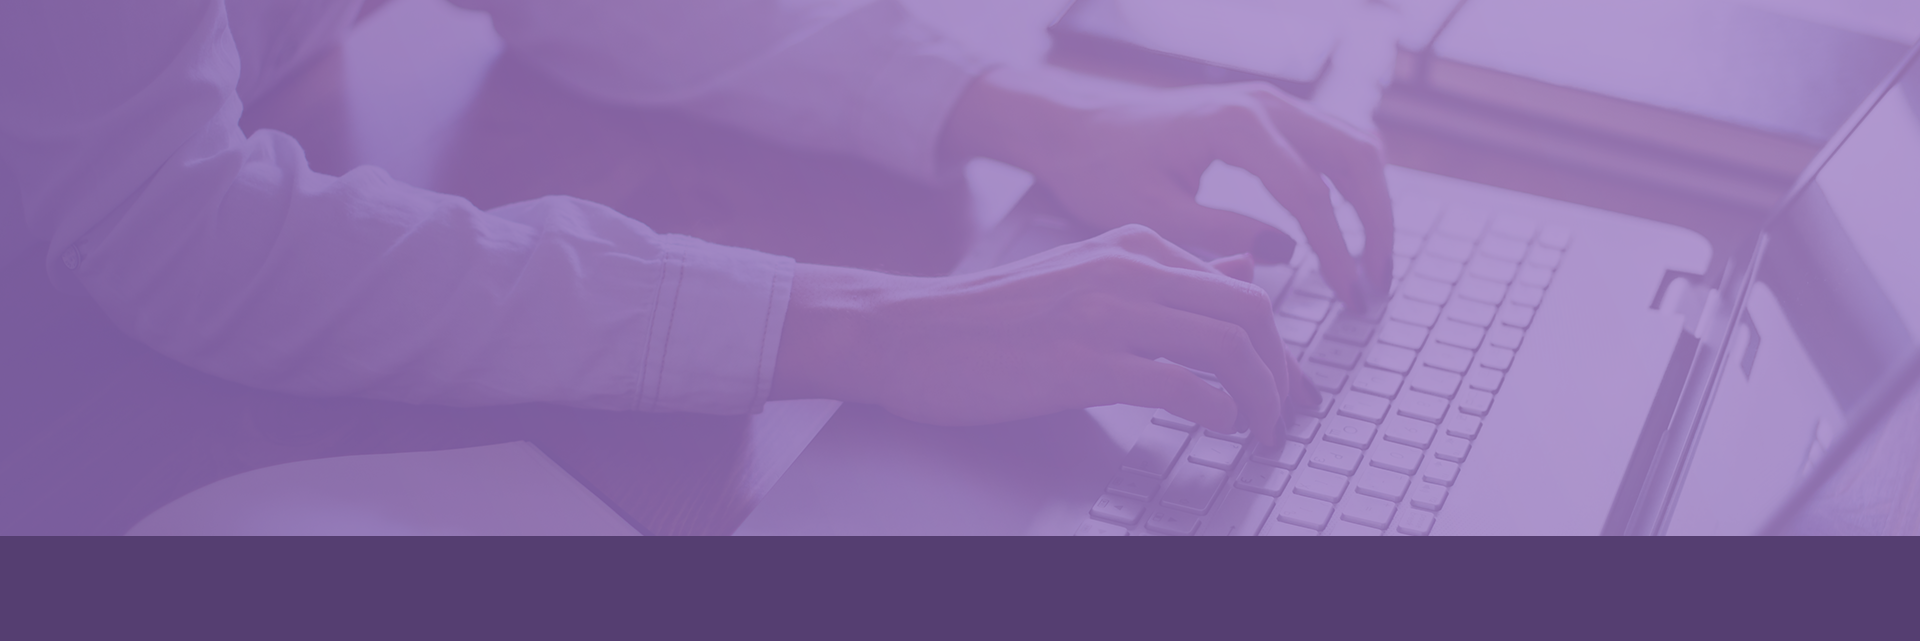
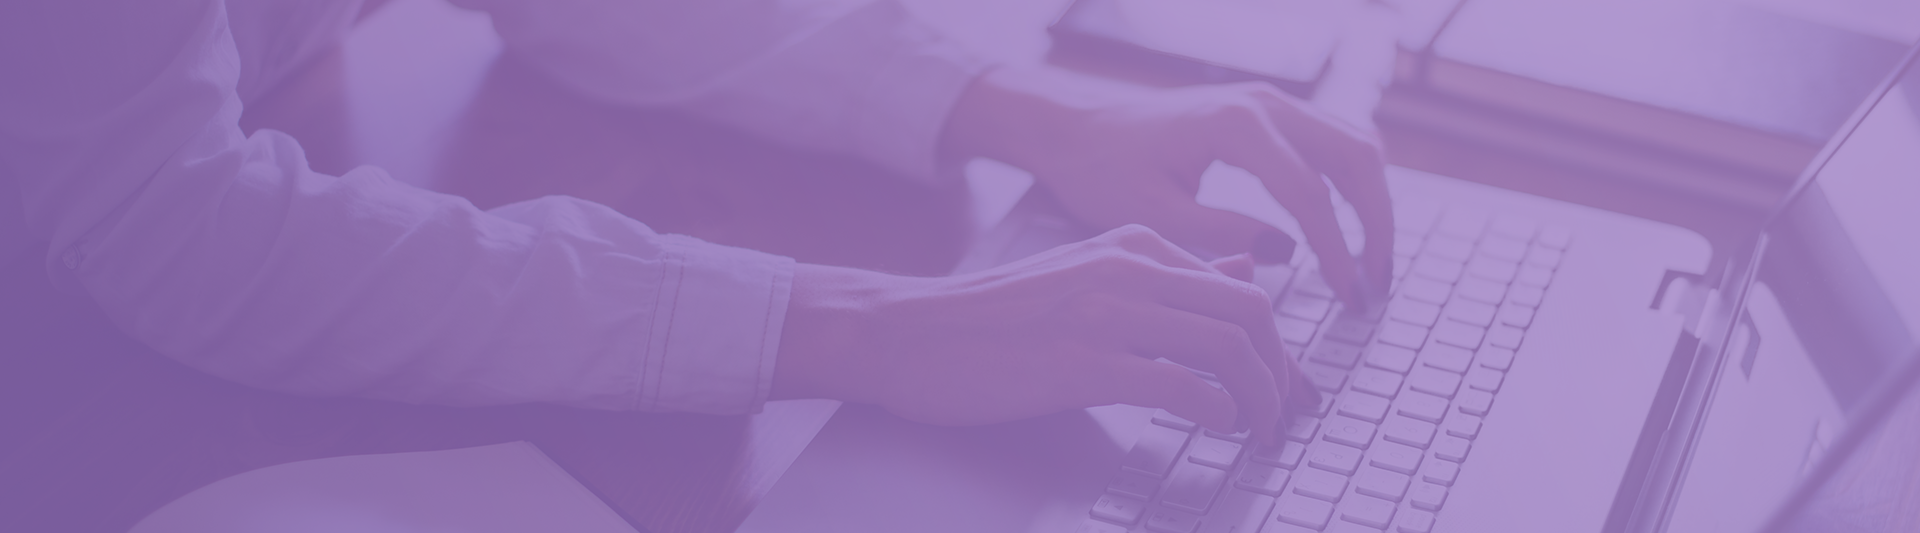
resp issues resolved and socket added

diff --git a/index.html b/index.html
@@ -21,17 +21,17 @@
 
 <body>
   <!-- Start Section 7 -->
-  <div class="conainer-fluid sec-7-main">
+  <div class="container-fluid sec-7-main">
     <div class="container ">
       <div class="row">
         <div class="col-lg-5">
           <div class="section-7-img-container">
-            <img class="img-section-7" src="assets/images/sec-7-image.png">
+            <img class="img-section-7 img-fluid" src="assets/images/sec-7-image.png">
           </div>
         </div>
         <div class="col-lg-7 sec-7-text">
           <h1 class="main-heading-dark">The Problem.</h1>
-          <img class="sec-7-underline" src="assets/images/sec-7-line.png">
+          <img class="sec-7-underline d-none" src="assets/images/sec-7-line.png">
           <div class="paragraph">
             <p>Who said that efficient college management, online exam management, or attendance management has to be
               synonymous with
@@ -56,12 +56,12 @@
       </div>
     </div>
   </div>
-  <!-- Start Section 8 -->
+
+
   <div class="container-fluid sec-8-main">
     <div class="container">
       <h1 class="main-heading-white">Top 3 Reasons Why Universities<br>
         & Schools Choose ClassTrack:</h1>
-      <!-- card-1 -->
       <div class="row sec-8-card">
         <div class="col-lg-4 sec-8-img-main">
           <img class="sec-8-card-img" src="assets/images/sec-8-vector-1.png">
@@ -81,7 +81,6 @@
           <a class="btn btn-primary btn-blue" href="#" role="button">Try ClassTrack Today!</a>
         </div>
       </div>
-      <!-- card-2 -->
       <div class="row sec-8-card">
         <div class="col-lg-7">
           <h1 class="sub-heading">Faster Solution:</h1>
@@ -100,7 +99,6 @@
           <img class="sec-8-card-img" src="assets/images/sec-8-vector-2.png">
         </div>
       </div>
-      <!-- card-3 -->
       <div class="row sec-8-card">
         <div class="col-lg-4 sec-8-img-main">
           <img class="sec-8-card-img" src="assets/images/sec-8-vector-3.png">
@@ -123,20 +121,19 @@
     </div>
   </div>
 
-  <!-- Start Section 9 -->
-  <div class="conainer-fluid sec-9-main">
+  <div class="container-fluid sec-9-main">
     <div class="container ">
       <div class="row ">
         <div class="col-lg-5">
           <div class="section-7-img-container">
-            <img class="img-section-7" src="assets/images/sec-9-img.png">
+            <img class="img-section-7 img-fluid" src="assets/images/sec-9-img.png">
           </div>
         </div>
         <div class="col-lg-7 sec-7-text">
           <h1 class="main-heading-dark">FACT: In This Era Of Uncertainty,
             Online Education Management
             Systems Are The Future.</h1>
-          <img class="sec-7-underline" src="assets/images/sec-7-line.png">
+          <img class="sec-7-underline d-none" src="assets/images/sec-7-line.png">
           <div class="paragraph">
             <p>Social distancing has started to make physical office spaces more obsolete than ever. What used to be the
               management’s
@@ -172,7 +169,7 @@
       </div>
     </div>
   </div>
-  <!-- Start Section 10 -->
+  <!-- section 10 -->
   <div class="container-fluid sec-10-main">
     <div class="container">
       <h1 class="main-heading-dark" style="text-align: center;">3 Signs That Your School Needs ClassTrack:</h1>
@@ -225,14 +222,14 @@
     </div>
   </div>
   <!-- section 11 -->
-  <div class="conainer-fluid sec-11-main">
+  <div class="container-fluid sec-11-main">
     <div class="container">
       <h1 class="main-heading-dark" style="text-align: center;">3 Unique Features That Will Make ClassTrack<br>
         Your Next Education Management Solution:</h1>
       <!-- row-1 -->
       <div class="row sec-11-row">
         <div class="col-lg-5 sec-11-img-main">
-          <img class="sec-11-img" src="assets/images/laptop-image.png">
+          <img class="sec-11-img img-fluid" src="assets/images/laptop-image.png">
         </div>
         <div class="col-lg-7">
           <h1 class="sub-heading">Ground-Breaking College Management System:</h1>
@@ -244,7 +241,7 @@
           <a class="btn btn-primary btn-blue" href="#" role="button">Try ClassTrack Today!</a>
         </div>
         <!-- row-2 -->
-        <div class="row sec-11-row">
+        <div class="row sec-11-row alternate-sec-11-row">
           <div class="col-lg-7">
             <h1 class="sub-heading">Pioneering QR Attendance Tracking System</h1>
             <div class="paragraph">
@@ -254,13 +251,13 @@
             <a class="btn btn-primary btn-blue" href="#" role="button">Try ClassTrack Today!</a>
           </div>
           <div class="col-lg-5 sec-11-img-main">
-            <img class="sec-11-img" src="assets/images/laptop-image.png">
+            <img class="sec-11-img img-fluid" src="assets/images/laptop-image.png">
           </div>
         </div>
         <!-- row-3 -->
         <div class="row sec-11-row">
           <div class="col-lg-5 sec-11-img-main">
-            <img class="sec-11-img" src="assets/images/laptop-image.png">
+            <img class="sec-11-img img-fluid" src="assets/images/laptop-image.png">
           </div>
           <div class="col-lg-7">
             <h1 class="sub-heading">Cutting-Edge Online Exam Management System</h1>
@@ -323,8 +320,8 @@
 
     </div>
   </div>
-  <!-- Section-13 -->
-  <div class="container-fluid sec-13-main">
+   <!-- Section-13 -->
+   <div class="container-fluid sec-13-main">
     <div class="container">
       <h1 class="main-heading-dark" style="text-align: center;">Here’s Why College Administrators,
         School Teachers, And Tutors Love ClassTrack:</h1>
@@ -372,8 +369,8 @@
       </div>
     </div>
   </div>
-  <!-- footer -->
-  <div class="container-fluid footer-main">
+   <!-- footer -->
+   <div class="container-fluid footer-main position-relative">
     <div class="container">
       <h1 class="main-heading-white">WHAT ARE YOU WAITING FOR?</h1>
       <p style="font-size: 30px;text-align: center;color: white;">You Have Nothing To Lose & No Excuses To Postpone It!
@@ -381,9 +378,10 @@
       <div class="sec-10-btn-container">
         <a class="btn btn-primary btn-blue" href="#" role="button">Try ClassTrack Today!</a>
       </div>
-      <div class="socket"></div>
+      
     </div>
   </div>
+  <div class="socket" >© 2020  Classtrack. All Rights Reserved.</div>
   <!-- Optional JavaScript -->
   <!-- jQuery first, then Popper.js, then Bootstrap JS -->
   <script src="https://code.jquery.com/jquery-3.5.1.slim.min.js"

diff --git a/index2.html b/index2.html
@@ -1,0 +1,104 @@
+<!DOCTYPE html>
+<html lang="en">
+    <head>
+
+        <!-- STYLESHEET -->
+        <link rel="stylesheet" href="assets/css/style.css">
+        <!-- FONTS -->
+        <link href="https://fonts.googleapis.com/css2?family=Oxygen:wght@300;400;700&display=swap" rel="stylesheet">
+        <link href="https://fonts.googleapis.com/css2?family=Jost:wght@600&display=swap" rel="stylesheet">
+      
+        <!-- Required meta tags -->
+        <meta charset="utf-8">
+        <meta name="viewport" content="width=device-width, initial-scale=1, shrink-to-fit=no">
+      
+        <!-- Bootstrap CSS -->
+        <link rel="stylesheet" href="https://stackpath.bootstrapcdn.com/bootstrap/4.5.2/css/bootstrap.min.css"
+          integrity="sha384-JcKb8q3iqJ61gNV9KGb8thSsNjpSL0n8PARn9HuZOnIxN0hoP+VmmDGMN5t9UJ0Z" crossorigin="anonymous">
+        <title>Class Track</title>
+      </head>
+<body>
+<section>
+    <div class="container">
+        <div class="row">
+            <div class="col-sm-5">
+                <div class="section-7-img-container">
+                    <img class="img-section-7 img-fluid" src="assets/images/sec-7-image.png">
+                  </div>
+            </div>
+            <div class="col-sm-7">    <h1 class="main-heading-dark">The Problem.</h1>
+                <img class="sec-7-underline" src="assets/images/sec-7-line.png">
+                <div class="paragraph">
+                  <p>Who said that efficient college management, online exam management, or attendance management has to be
+                    synonymous with
+                    mountains of paperwork?</p>
+                  <p>Managing classes, assessments, and attendance can be a huge challenge, especially if your school or
+                    university lacks the
+                    infrastructure required to handle management tasks with ease.</p>
+                  <p>Paperwork is costly, takes up too much space in your facility, and can be easily lost, misplaced or
+                    destroyed.</p>
+                  <p>Thousands of schools and universities have to deal with this problem every single year.</p>
+                  <p>Doing everything by hand on paper is not only time-consuming and expensive, but also counter-productive,
+                    since you could
+                    spend that time focusing on more important aspects of your curriculum.</p>
+                  <p>That’s exactly why we have designed this paper-free school management system that will allow you to
+                    perform
+                    every single
+                    task with unmatched convenience and ease – minus the huge pile of paperwork.</p>
+                </div>
+      
+                <a class="btn btn-primary btn-purple" href="#" role="button">Try ClassTrack Today!</a></div>
+        </div>
+    </div>
+</section>
+
+    <div class="container-fluid sec-7-main ">
+        <div class="container ">
+          <div class="row">
+            <div class="col-lg-5">
+              <div class="section-7-img-container">
+                <img class="img-section-7 img-fluid" src="assets/images/sec-7-image.png">
+              </div>
+            </div>
+            <div class="col-lg-7 sec-7-text">
+              <h1 class="main-heading-dark">The Problem.</h1>
+              <img class="sec-7-underline" src="assets/images/sec-7-line.png">
+              <div class="paragraph">
+                <p>Who said that efficient college management, online exam management, or attendance management has to be
+                  synonymous with
+                  mountains of paperwork?</p>
+                <p>Managing classes, assessments, and attendance can be a huge challenge, especially if your school or
+                  university lacks the
+                  infrastructure required to handle management tasks with ease.</p>
+                <p>Paperwork is costly, takes up too much space in your facility, and can be easily lost, misplaced or
+                  destroyed.</p>
+                <p>Thousands of schools and universities have to deal with this problem every single year.</p>
+                <p>Doing everything by hand on paper is not only time-consuming and expensive, but also counter-productive,
+                  since you could
+                  spend that time focusing on more important aspects of your curriculum.</p>
+                <p>That’s exactly why we have designed this paper-free school management system that will allow you to
+                  perform
+                  every single
+                  task with unmatched convenience and ease – minus the huge pile of paperwork.</p>
+              </div>
+    
+              <a class="btn btn-primary btn-purple" href="#" role="button">Try ClassTrack Today!</a>
+            </div>
+          </div>
+        </div>
+      </div>
+
+
+      
+    <script src="https://code.jquery.com/jquery-3.5.1.slim.min.js"
+    integrity="sha384-DfXdz2htPH0lsSSs5nCTpuj/zy4C+OGpamoFVy38MVBnE+IbbVYUew+OrCXaRkfj"
+    crossorigin="anonymous"></script>
+  <script src="https://cdn.jsdelivr.net/npm/popper.js@1.16.1/dist/umd/popper.min.js"
+    integrity="sha384-9/reFTGAW83EW2RDu2S0VKaIzap3H66lZH81PoYlFhbGU+6BZp6G7niu735Sk7lN"
+    crossorigin="anonymous"></script>
+  <script src="https://stackpath.bootstrapcdn.com/bootstrap/4.5.2/js/bootstrap.min.js"
+    integrity="sha384-B4gt1jrGC7Jh4AgTPSdUtOBvfO8shuf57BaghqFfPlYxofvL8/KUEfYiJOMMV+rV"
+    crossorigin="anonymous"></script>
+  <script src="/assets/js/script.js"></script>
+</body>
+</html>

diff --git a/assets/css/style.css b/assets/css/style.css
@@ -222,14 +222,34 @@ margin-top: 70px;
 /* footer */
 .footer-main{
     background-image: url("/assets/images/footer.png");
-    height: 641px;
+    height: 530px;
     display: flex;
     justify-content: center;
     align-items: center;
 }
-
+.socket{
+  height: 100px;
+    display: flex;
+    background: #553e71;
+    justify-content: center;
+    align-items: center;
+    color: white;
+}
 /* bullet */
 ul {
     list-style-image: url("/assets/images/bullet.png");
     line-height: 2em;
+}
+@media screen and (max-width:768px){
+    .alternate-sec-11-row{
+        flex-direction: column-reverse;
+    }
+}
+@media screen and (max-width:768px){
+.main-heading-white{
+    font-size: 35px;
+}
+.main-heading-dark{
+    font-size: 35px;
+}
 }
